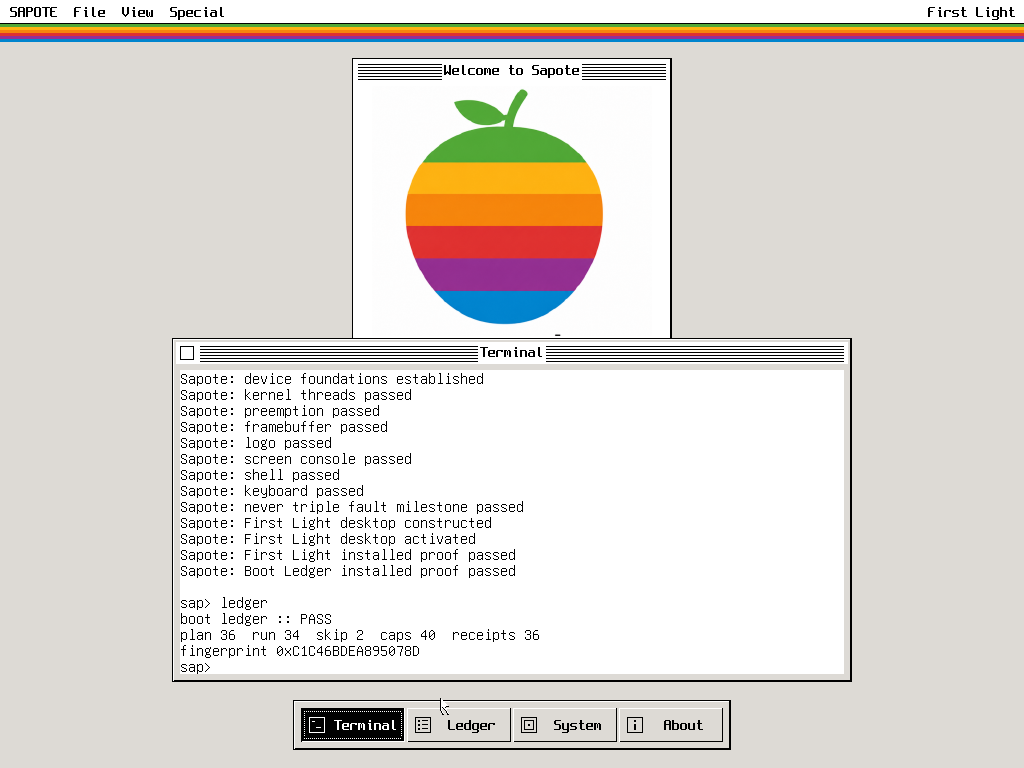
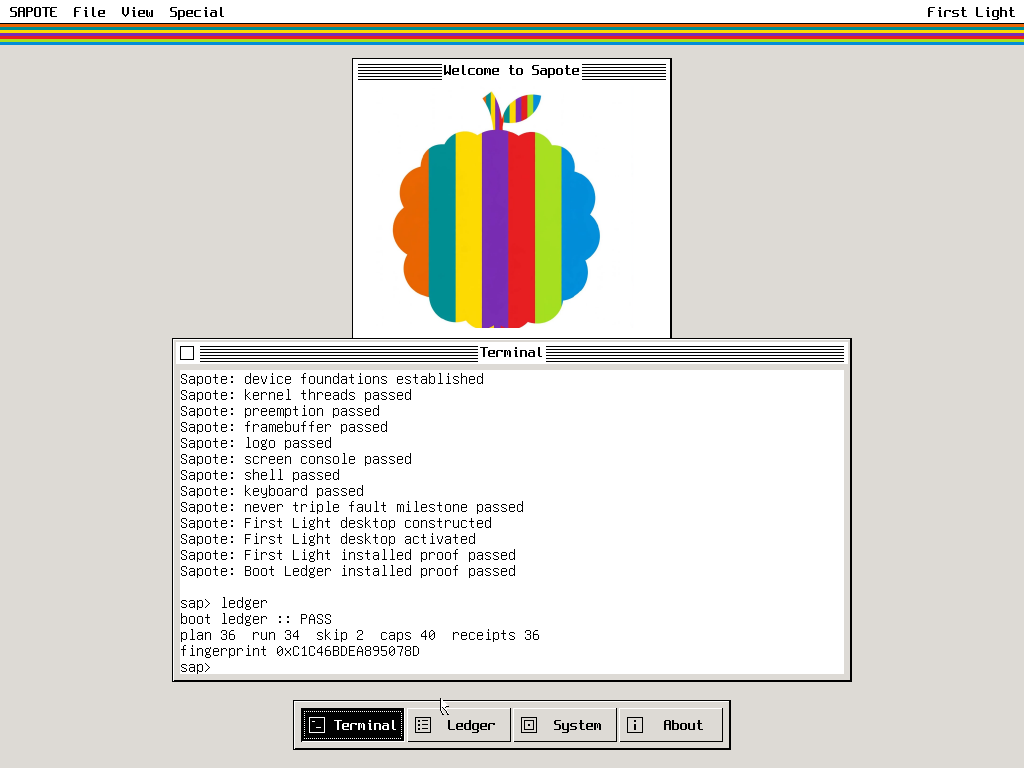
docs: capture the canonical Sapote First Light

Changed region(s): [[0.375, 0.0938, 0.5938, 0.4375], [0.0, 0.0312, 1.0, 0.0625]]

diff --git a/docs/DEBT.md b/docs/DEBT.md
@@ -262,7 +262,9 @@ Measured, and healthy:
 
 - **Thirty-four QEMU scenarios.** Runtime depends on the host; every scenario
   remains bounded, including the 786,432-pixel framebuffer readback.
-- **726 KB kernel image**, of which 66 KB is the logo.
+- **1,550 KiB on-disk kernel ELF**, of which 91 KiB is the packed canonical
+  Sapote mark (1,587,320 and 92,763 bytes respectively in the verified v0.4.0
+  artifact).
 - **No `TODO`, `FIXME`, `XXX` or `HACK` anywhere** in `src/`, `include/`, `docs/`
   or the `Makefile`.
 - **No undefined symbols, no global offset table, no RWX segment**, all asserted
